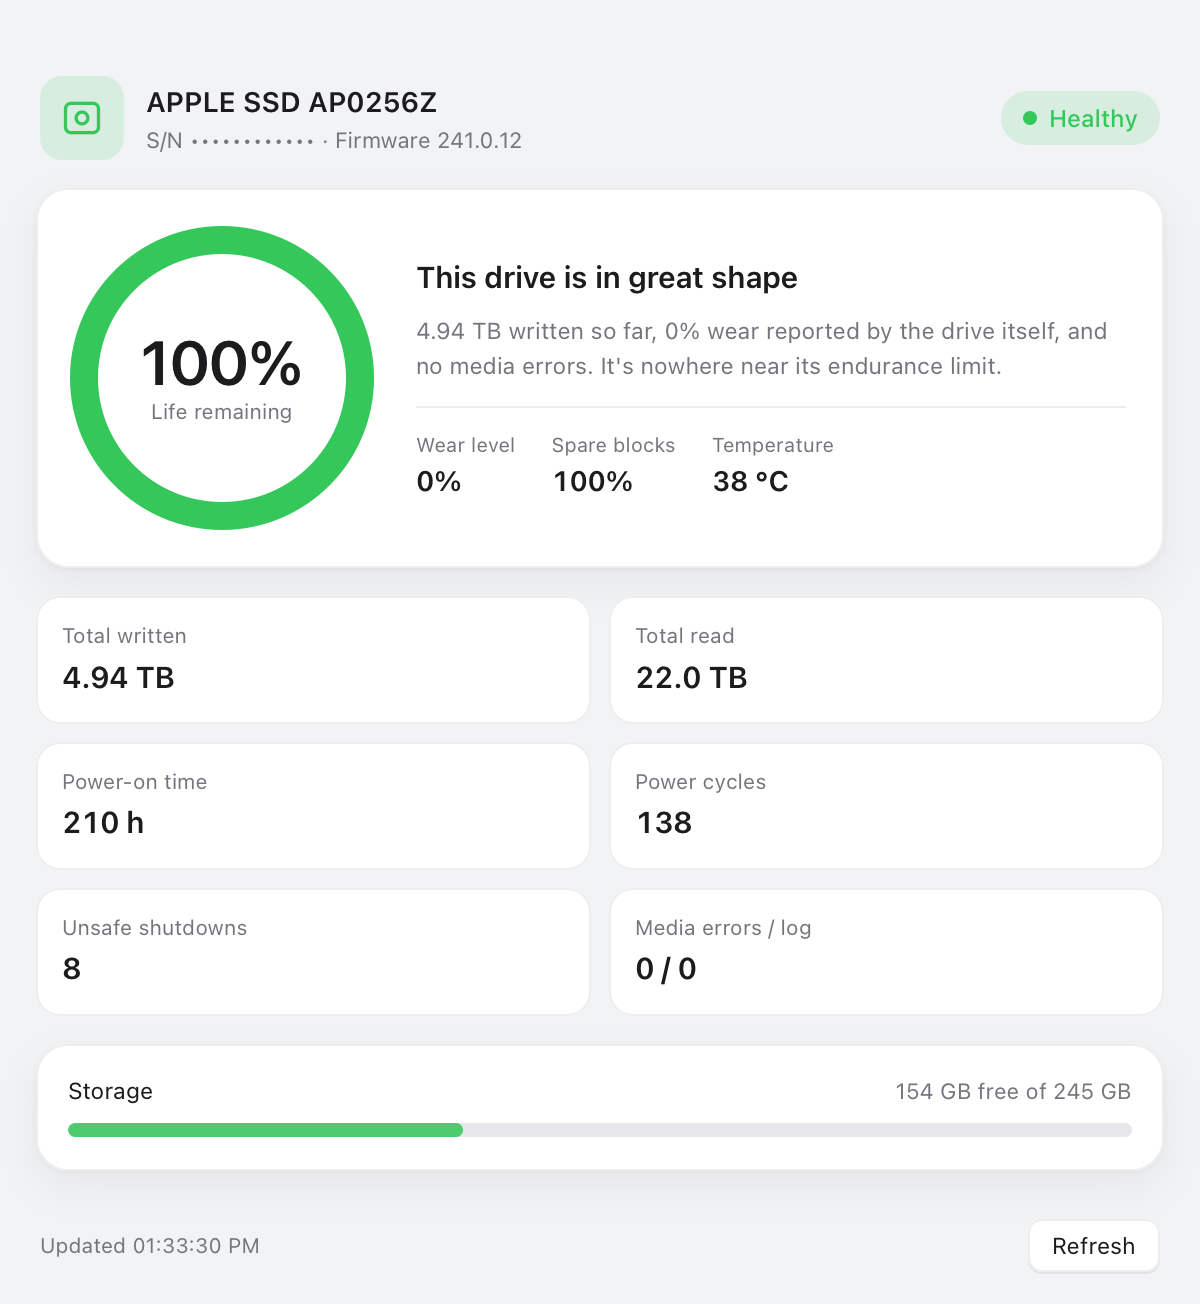
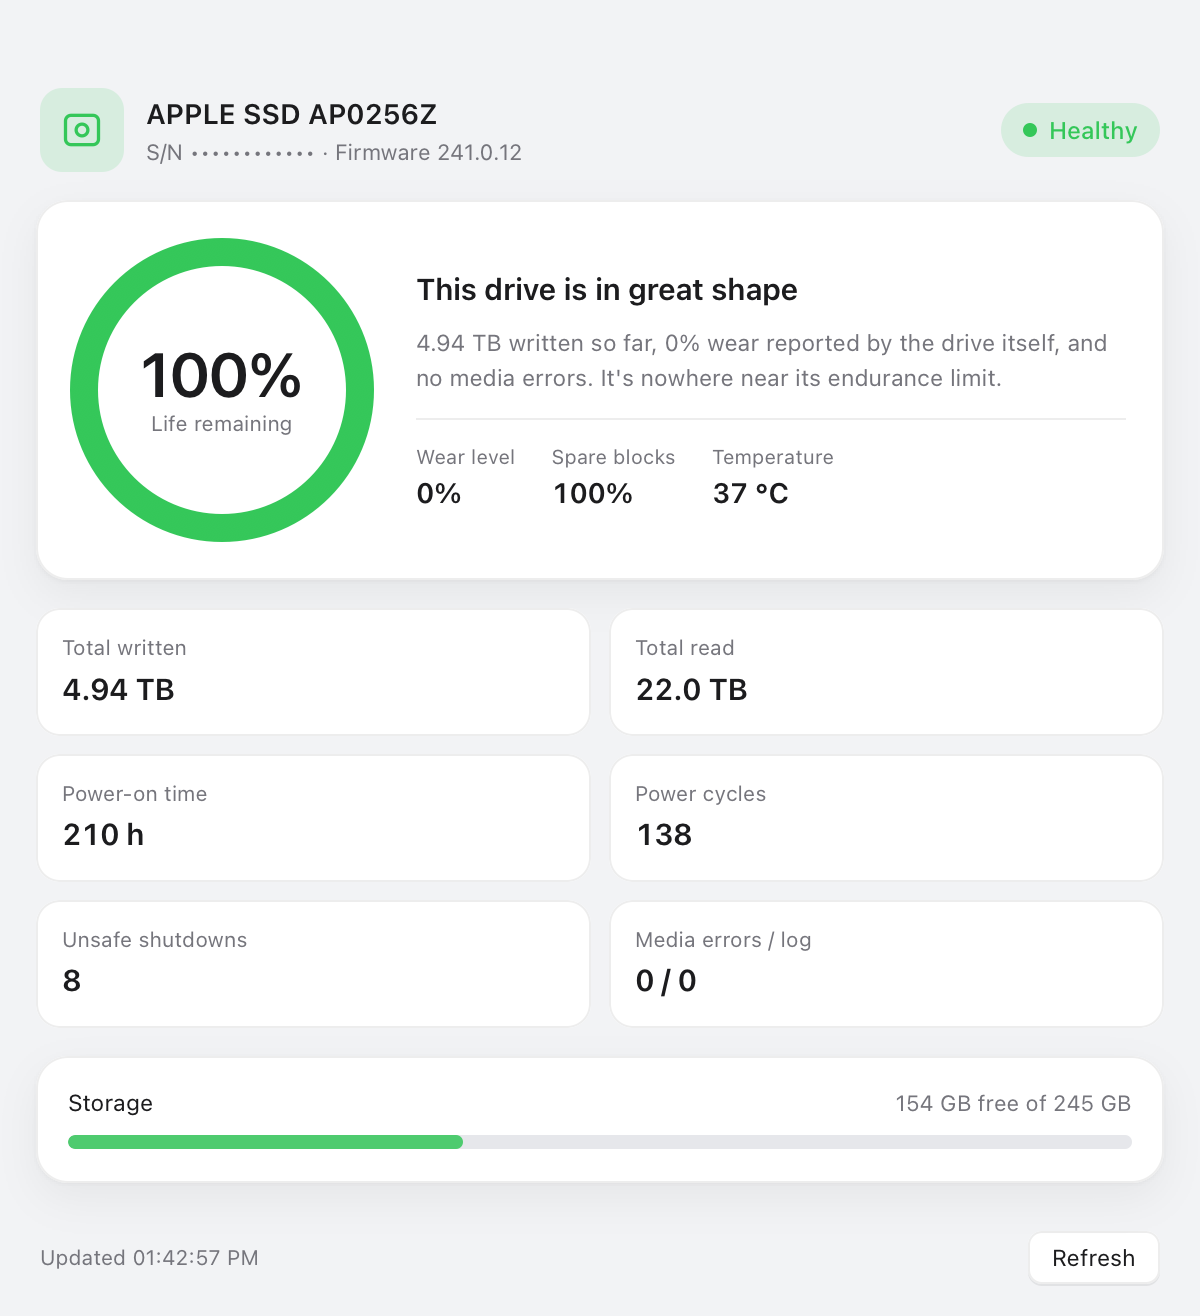
Fix window dragging: add a transparent drag strip
1.0.1 removed isMovableByWindowBackground while the window still used
.fullSizeContentView with a hidden title bar, leaving no draggable area at all
(WKWebView reports mouseDownCanMoveWindow = false, so the flag alone would not
have helped either).

- DragBarView: transparent 40pt strip pinned to the top of the content view,
  mouseDownCanMoveWindow = true; sits inside the page's top padding so it
  steals no controls
- content view is now a container holding webView + dragBar
- page top padding 38 -> 44px, bump to 1.0.2, refresh screenshots

diff --git a/src/AppDelegate.swift b/src/AppDelegate.swift
@@ -7,14 +7,26 @@ final class ClickThroughWebView: WKWebView {
     override func acceptsFirstMouse(for event: NSEvent?) -> Bool { true }
 }
 
+/// Transparent strip across the top of the window that lets you drag it.
+/// With .fullSizeContentView the web view covers the whole window, so without
+/// this there is no draggable area at all.
+final class DragBarView: NSView {
+    override var mouseDownCanMoveWindow: Bool { true }
+    override func acceptsFirstMouse(for event: NSEvent?) -> Bool { true }
+}
+
 final class AppDelegate: NSObject, NSApplicationDelegate, WKNavigationDelegate, WKScriptMessageHandler {
 
     private var window: NSWindow!
     private var webView: ClickThroughWebView!
+    private var dragBar: DragBarView!
 
     /// Serializes SMART reads: the C helper returns a static buffer.
     private let healthQueue = DispatchQueue(label: "com.ch.diskhealth.reader")
     private var isRefreshing = false
+
+    /// Matches the web page's top padding: the drag strip sits entirely in it.
+    private let dragStripHeight: CGFloat = 40
 
     /// UI language: follows the system, can be forced with DH_LANG=zh|en.
     private let isChinese: Bool = {
@@ -41,8 +53,30 @@ final class AppDelegate: NSObject, NSApplicationDelegate, WKNavigationDelegate, 
             webView.underPageBackgroundColor = .windowBackgroundColor
         }
 
+        dragBar = DragBarView(frame: .zero)
+        dragBar.wantsLayer = true
+        dragBar.layer?.backgroundColor = NSColor.clear.cgColor
+
+        let container = NSView(frame: NSRect(x: 0, y: 0, width: 600, height: 658))
+        container.autoresizingMask = [.width, .height]
+        webView.translatesAutoresizingMaskIntoConstraints = false
+        dragBar.translatesAutoresizingMaskIntoConstraints = false
+        container.addSubview(webView)
+        container.addSubview(dragBar)
+        NSLayoutConstraint.activate([
+            webView.leadingAnchor.constraint(equalTo: container.leadingAnchor),
+            webView.trailingAnchor.constraint(equalTo: container.trailingAnchor),
+            webView.topAnchor.constraint(equalTo: container.topAnchor),
+            webView.bottomAnchor.constraint(equalTo: container.bottomAnchor),
+
+            dragBar.leadingAnchor.constraint(equalTo: container.leadingAnchor),
+            dragBar.trailingAnchor.constraint(equalTo: container.trailingAnchor),
+            dragBar.topAnchor.constraint(equalTo: container.topAnchor),
+            dragBar.heightAnchor.constraint(equalToConstant: dragStripHeight),
+        ])
+
         window = NSWindow(
-            contentRect: NSRect(x: 0, y: 0, width: 600, height: 652),
+            contentRect: NSRect(x: 0, y: 0, width: 600, height: 658),
             styleMask: [.titled, .closable, .miniaturizable, .resizable, .fullSizeContentView],
             backing: .buffered,
             defer: false
@@ -52,7 +86,7 @@ final class AppDelegate: NSObject, NSApplicationDelegate, WKNavigationDelegate, 
         window.titleVisibility = .hidden
         window.backgroundColor = .windowBackgroundColor
         window.minSize = NSSize(width: 540, height: 600)
-        window.contentView = webView
+        window.contentView = container
         if ProcessInfo.processInfo.environment["DH_DARK"] != nil {
             window.appearance = NSAppearance(named: .darkAqua)
         }

diff --git a/src/index.html b/src/index.html
@@ -48,7 +48,7 @@
   .num { font-variant-numeric: tabular-nums; }
 
   .app {
-    padding: 38px 18px 16px;
+    padding: 44px 18px 16px;
     display: flex;
     flex-direction: column;
     gap: 14px;
